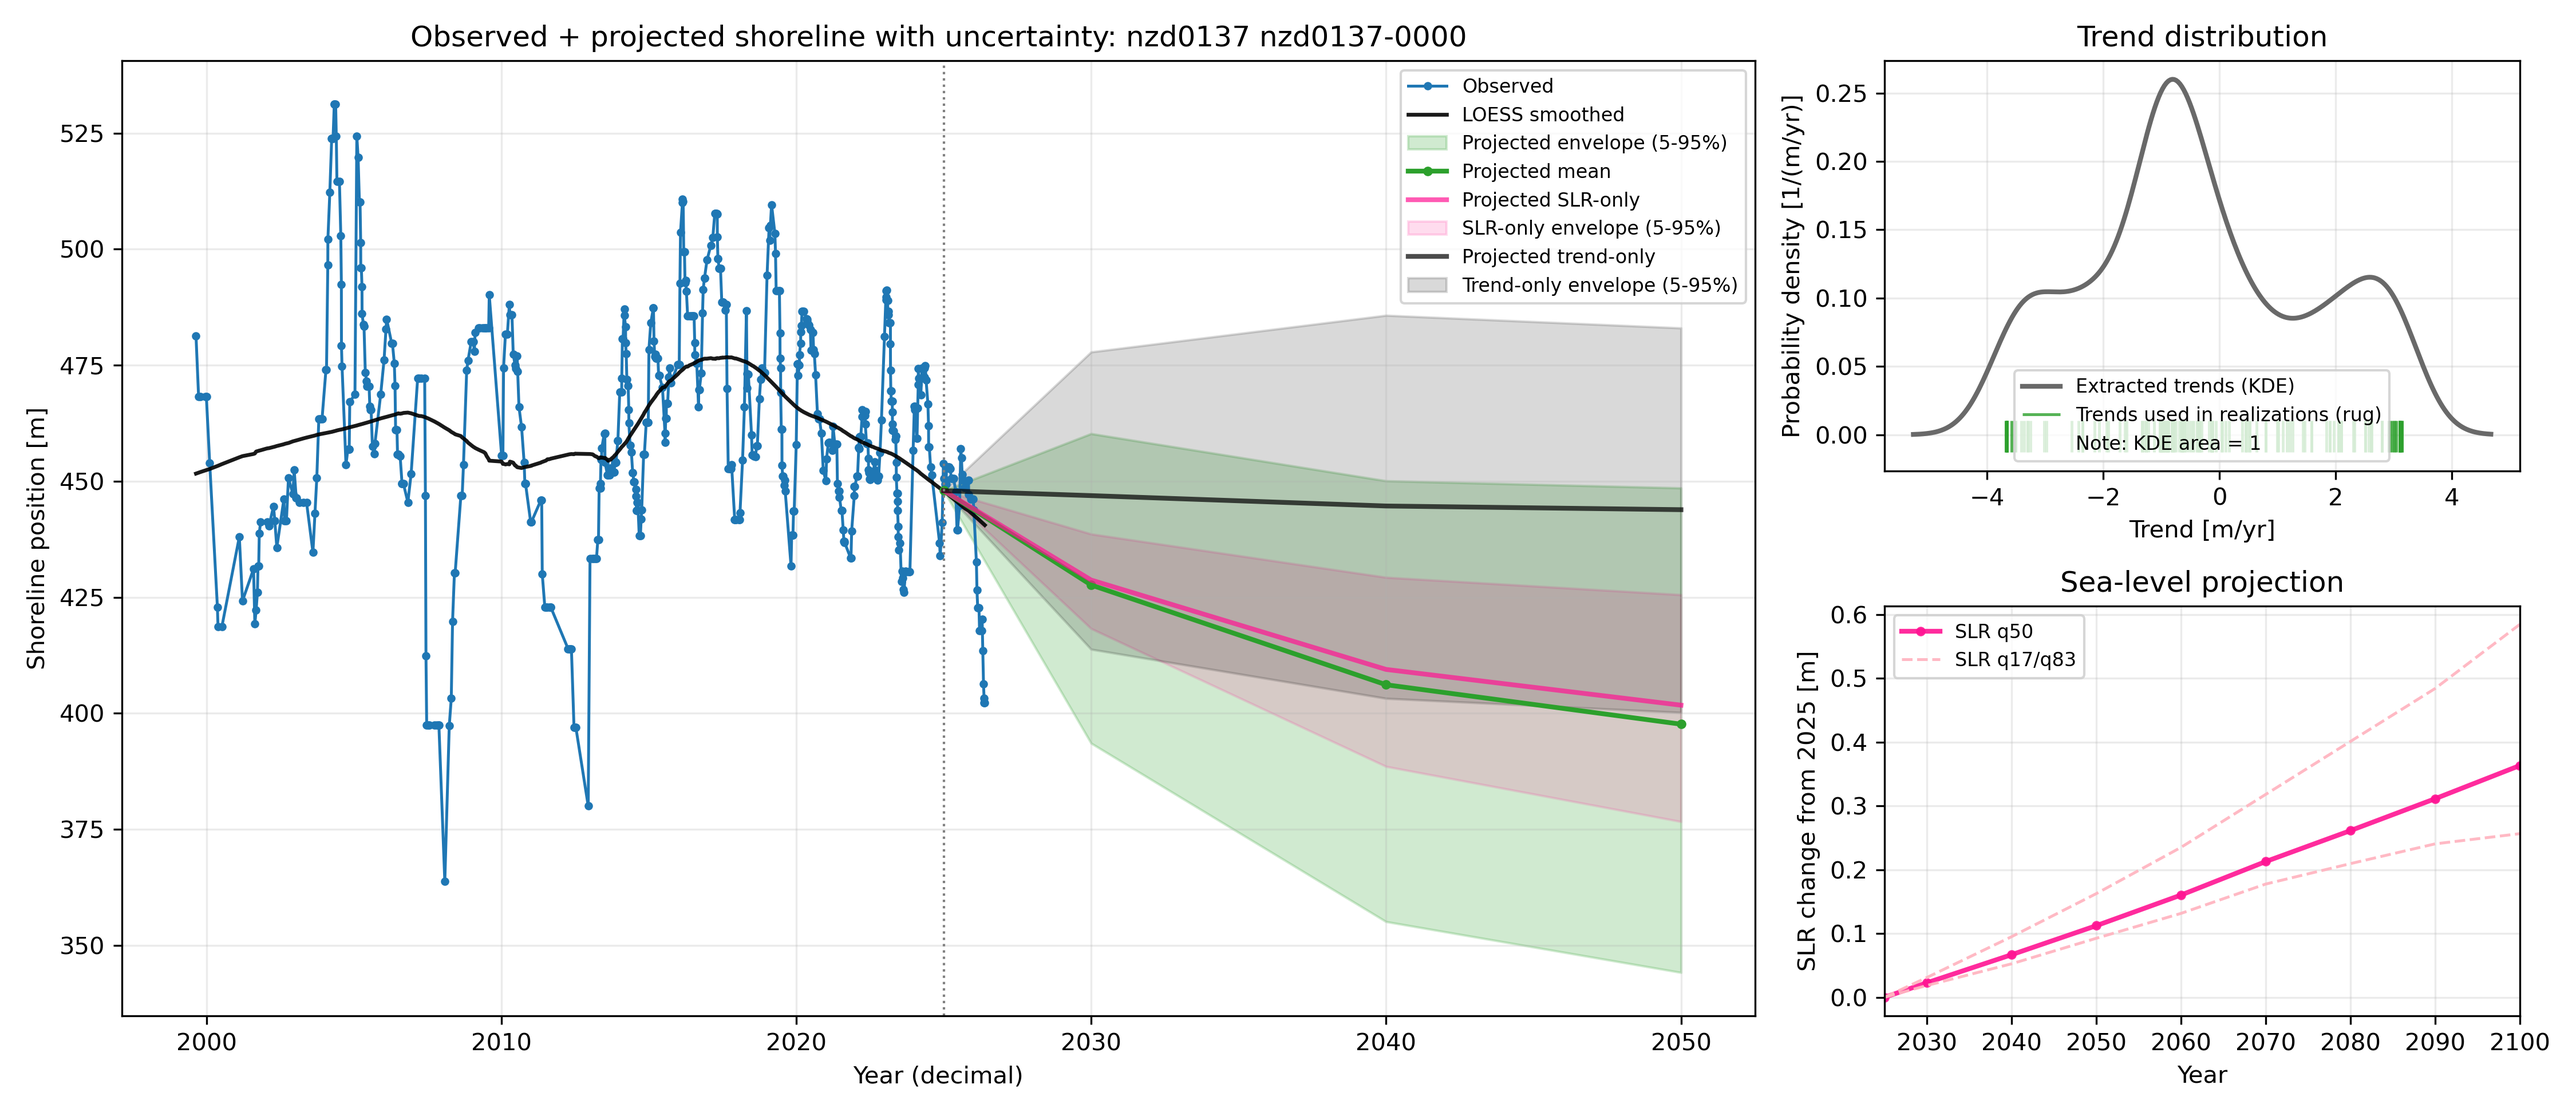
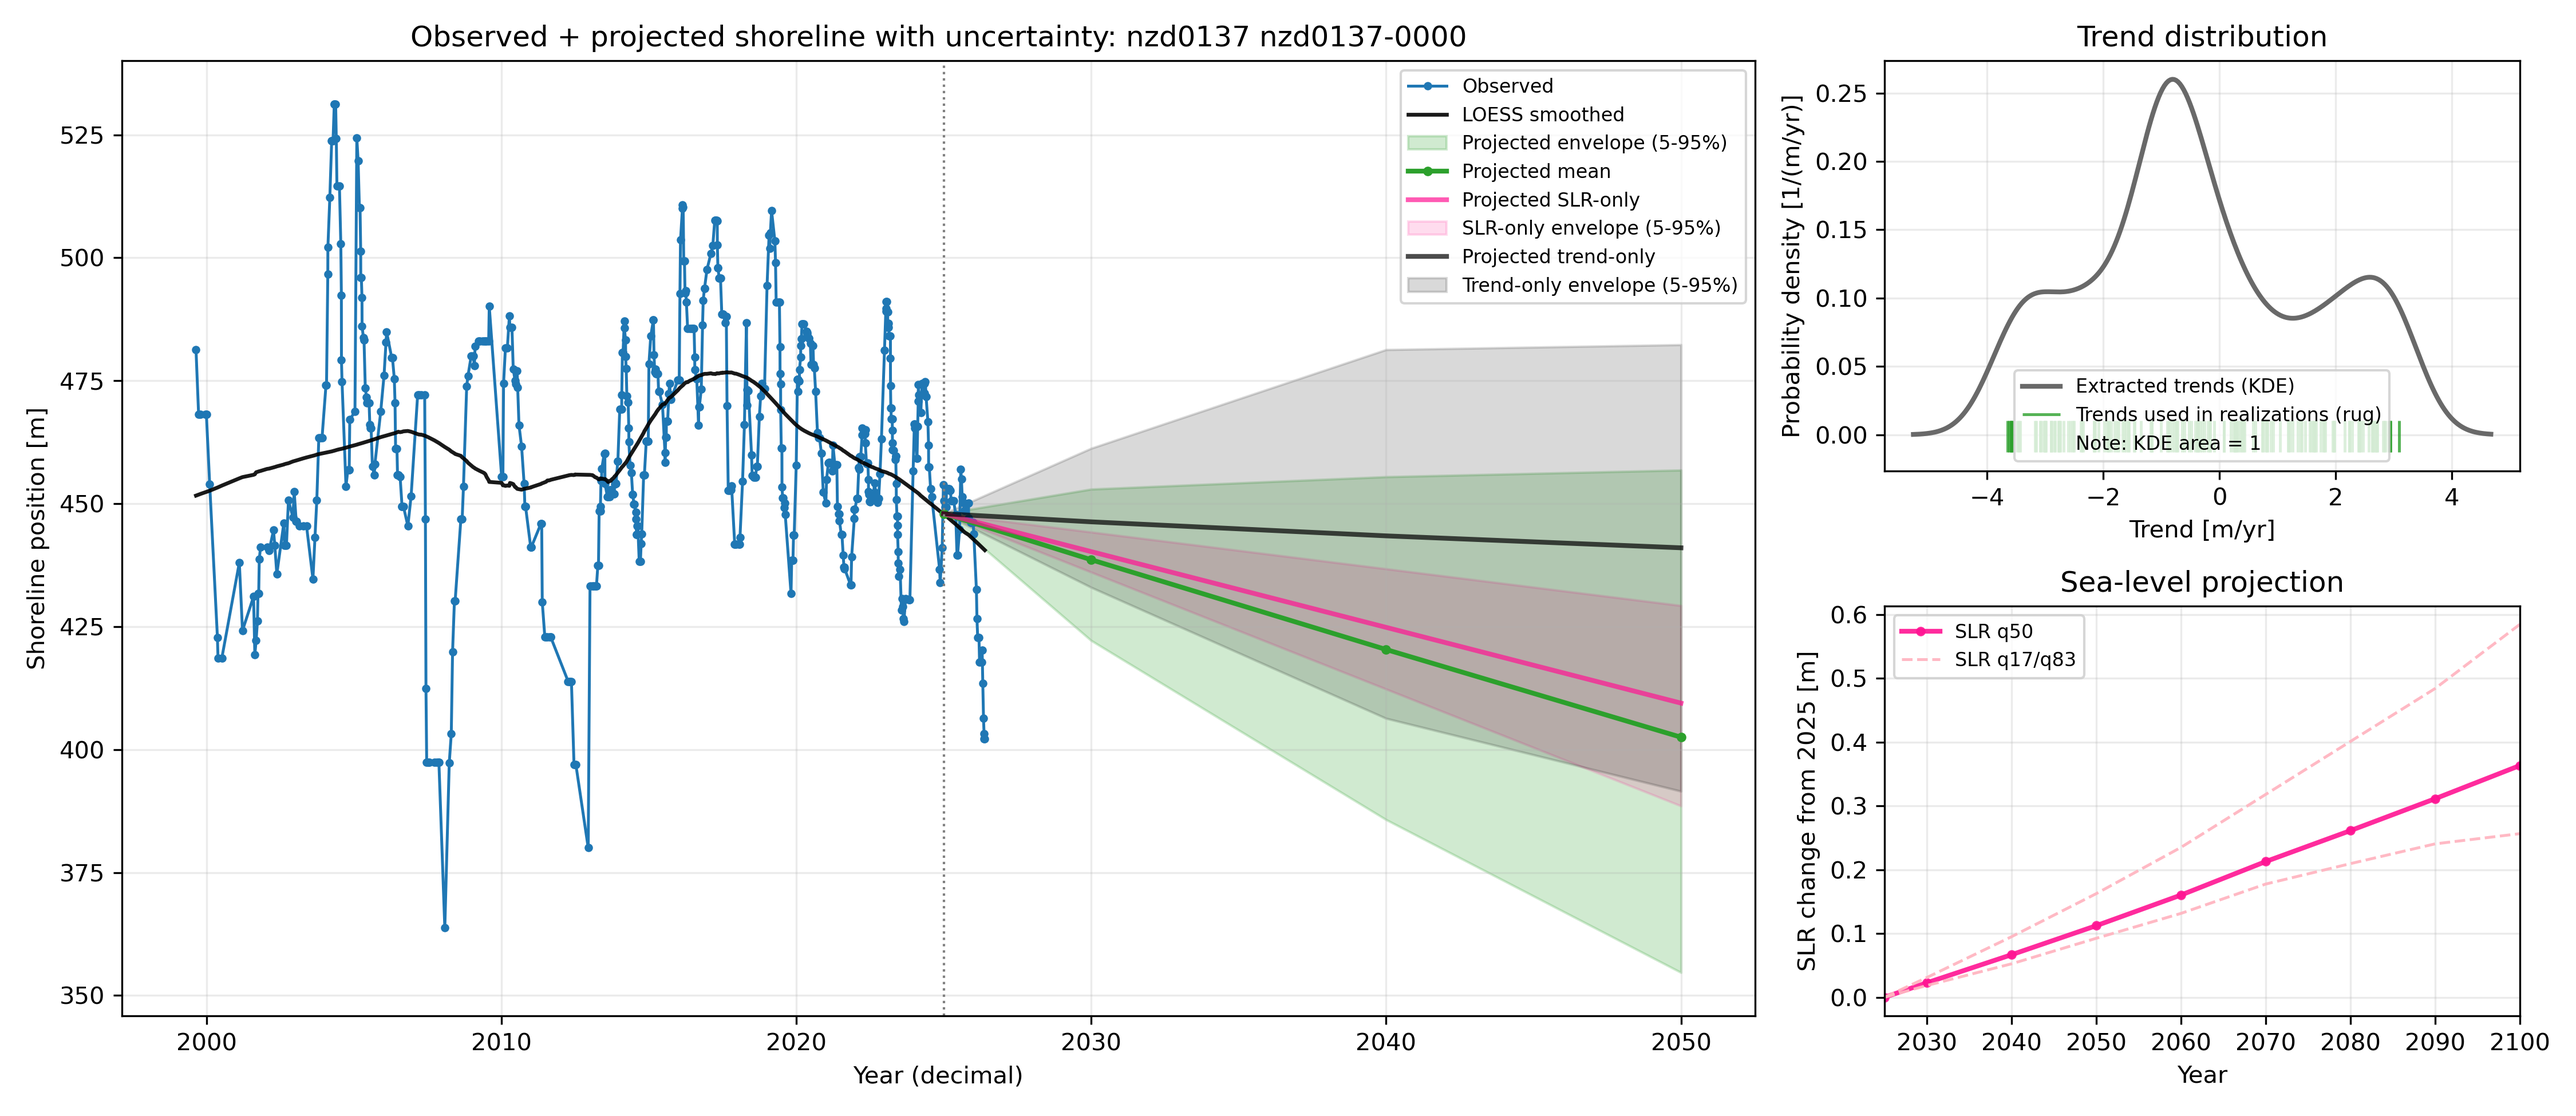
Ran for all Orewa
also added timer

diff --git a/trend_uncertainty.py b/trend_uncertainty.py
@@ -468,7 +468,44 @@ def mc_shoreline_change(
 
     return tuple(outputs)
 
+#%% Export results to CSV for further plotting in a webdashboard.
 
+def export_results_to_csv(prepared, meta_str):
+    """Export the prepared data for a single site/transect to a CSV file."""
+
+
+    proj_years = prepared["proj_years"]
+    proj_shoreline_mean = prepared["proj_shoreline_mean"]
+    proj_shoreline_q05 = prepared["proj_shoreline_q05"]
+    proj_shoreline_q95 = prepared["proj_shoreline_q95"]
+
+    slr_only_shoreline_mean = prepared["slr_only_shoreline_mean"]
+    slr_only_shoreline_q05 = prepared["slr_only_shoreline_q05"]
+    slr_only_shoreline_q95 = prepared["slr_only_shoreline_q95"]
+
+    trend_only_shoreline_mean = prepared["trend_only_shoreline_mean"]
+    trend_only_shoreline_q05 = prepared["trend_only_shoreline_q05"]
+    trend_only_shoreline_q95 = prepared["trend_only_shoreline_q95"]
+
+
+    # Export projected  YEAR, mean, q05, q95 to CSV
+    df_proj = pd.DataFrame({
+        "year": proj_years,
+        "proj_shoreline_mean": proj_shoreline_mean,
+        "proj_shoreline_q05": proj_shoreline_q05,
+        "proj_shoreline_q95": proj_shoreline_q95,
+        "slr_only_shoreline_mean": slr_only_shoreline_mean,
+        "slr_only_shoreline_q05": slr_only_shoreline_q05,
+        "slr_only_shoreline_q95": slr_only_shoreline_q95,
+        "trend_only_shoreline_mean": trend_only_shoreline_mean,
+        "trend_only_shoreline_q05": trend_only_shoreline_q05,
+        "trend_only_shoreline_q95": trend_only_shoreline_q95,
+    })
+    # Save to csv, but include ssp, site_id and transect_id in the filename
+    # # for easy identification
+    csv_fp = f"{meta_str}_projection_results.csv"
+    df_proj.to_csv(csv_fp, index=False)
+    print(f"Exported projection results to {csv_fp}")
 #%%
 
 import pandas as pd
@@ -551,6 +588,9 @@ debug_variance_plots = True
 # nzd_sites_trial = ["nzd0001"]
 nzd_sites_trial = ["nzd0137"]
 
+import time
+start_time = time.perf_counter()
+
 #Try only 2 sites first
 for site_id in nzd_sites_trial:
 
@@ -568,10 +608,10 @@ for site_id in nzd_sites_trial:
         if c.startswith(site_id + "-")
     ]
     
-    transect_trials=transect_cols[1:2] #Try only 1 transect first
+    # transect_trials=transect_cols[1:2] #Try only 1 transect first
 
-    for transect_id in transect_trials:
-    # for transect_id in transect_cols:
+    # for transect_id in transect_trials:
+    for transect_id in transect_cols:
 
         # Extract shoreline position for this transect
         y = df[transect_id]
@@ -867,58 +907,22 @@ for site_id in nzd_sites_trial:
 
         print(site_id, transect_id)
 
-#%% Export results to CSV for further plotting in a webdashboard.
+        #create outputs directory if it doesn't exist
+        output_dir = Path("outputs")
+        output_dir.mkdir(parents=True, exist_ok=True)
+        #create site-specific directory if it doesn't exist
+        site_dir = output_dir / site_id
+        site_dir.mkdir(parents=True, exist_ok=True)
 
-def export_results_to_csv(prepared, meta_str):
-    """Export the prepared data for a single site/transect to a CSV file."""
+        meta_str =site_dir / f"{site_id}_{transect_id}_{ssp_target}_{scenario_target}"
 
+        #Then save the CSV in the site-specific directory
+        export_results_to_csv(prepared, meta_str)
 
-    proj_years = prepared["proj_years"]
-    proj_shoreline_mean = prepared["proj_shoreline_mean"]
-    proj_shoreline_q05 = prepared["proj_shoreline_q05"]
-    proj_shoreline_q95 = prepared["proj_shoreline_q95"]
-
-    slr_only_shoreline_mean = prepared["slr_only_shoreline_mean"]
-    slr_only_shoreline_q05 = prepared["slr_only_shoreline_q05"]
-    slr_only_shoreline_q95 = prepared["slr_only_shoreline_q95"]
-
-    trend_only_shoreline_mean = prepared["trend_only_shoreline_mean"]
-    trend_only_shoreline_q05 = prepared["trend_only_shoreline_q05"]
-    trend_only_shoreline_q95 = prepared["trend_only_shoreline_q95"]
-
-
-    # Export projected  YEAR, mean, q05, q95 to CSV
-    df_proj = pd.DataFrame({
-        "year": proj_years,
-        "proj_shoreline_mean": proj_shoreline_mean,
-        "proj_shoreline_q05": proj_shoreline_q05,
-        "proj_shoreline_q95": proj_shoreline_q95,
-        "slr_only_shoreline_mean": slr_only_shoreline_mean,
-        "slr_only_shoreline_q05": slr_only_shoreline_q05,
-        "slr_only_shoreline_q95": slr_only_shoreline_q95,
-        "trend_only_shoreline_mean": trend_only_shoreline_mean,
-        "trend_only_shoreline_q05": trend_only_shoreline_q05,
-        "trend_only_shoreline_q95": trend_only_shoreline_q95,
-    })
-    # Save to csv, but include ssp, site_id and transect_id in the filename
-    # # for easy identification
-    csv_fp = f"{meta_str}_projection_results.csv"
-    df_proj.to_csv(csv_fp, index=False)
-    print(f"Exported projection results to {csv_fp}")
-
-#create outputs directory if it doesn't exist
-output_dir = Path("outputs")
-output_dir.mkdir(parents=True, exist_ok=True)
-#create site-specific directory if it doesn't exist
-site_dir = output_dir / site_id
-site_dir.mkdir(parents=True, exist_ok=True)
-
-meta_str =site_dir / f"{site_id}_{transect_id}_{ssp_target}_{scenario_target}"
-
-
-#Then save the CSV in the site-specific directory
-export_results_to_csv(prepared, meta_str)
-
+        end_time = time.perf_counter()
+        elapsed_time = end_time - start_time
+        minutes, seconds = divmod(elapsed_time, 60)
+        print(f"Elapsed time for {site_id} {transect_id}: {int(minutes)} minutes {seconds:.2f} seconds")
 
 
 
